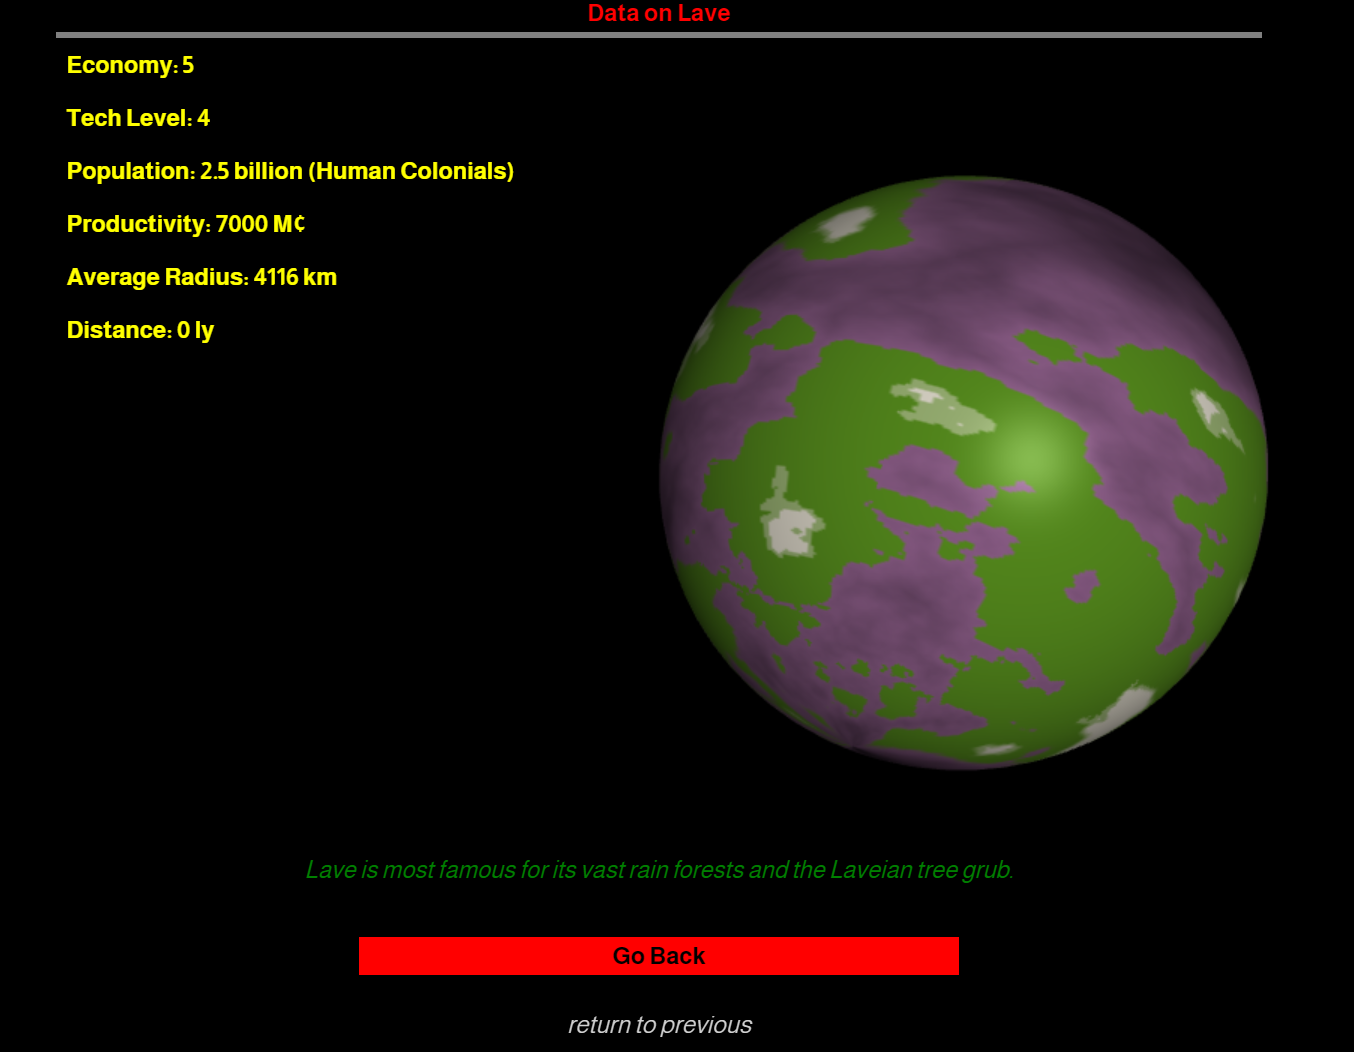
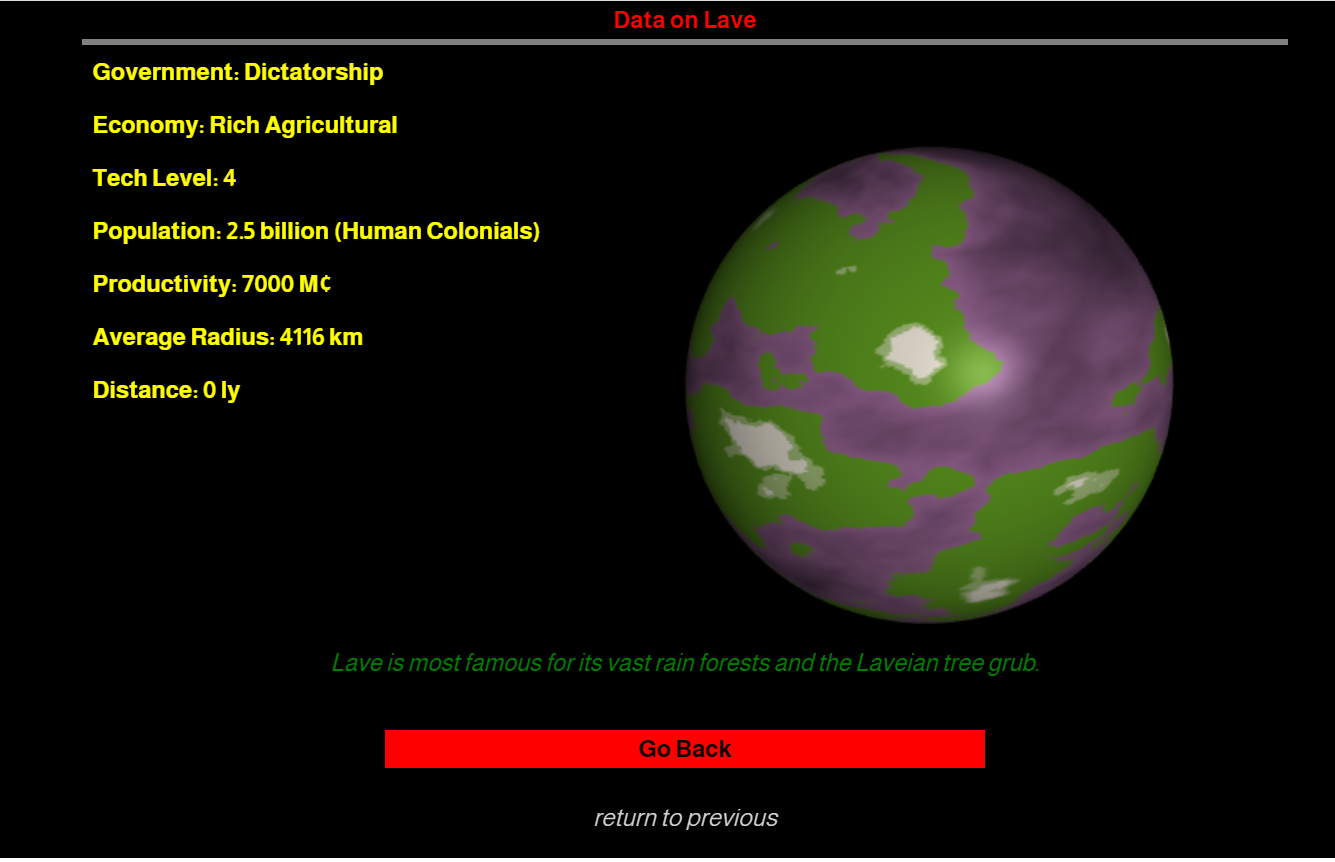
fixed economy/government display to phrase instead of number

Changed region(s): [[0.2457, 0.1508, 0.9521, 0.7842], [0.0307, 0.0, 0.9521, 0.4826], [0.0, 0.8144, 1.0, 1.0]]

diff --git a/src/modules/dom/views/system-summary.js b/src/modules/dom/views/system-summary.js
@@ -16,14 +16,15 @@ export default class SystemView extends ViewBase {
         //TODO: move leftside, statistic, blurb, etc, into base class to be shared ship lib view
         this.leftSide = DomHelper.AppendElement(this.area, Elements.LeftSide);
 
-        this.economy = DomHelper.AppendElement(this.leftSide, Elements.Statistic, "econ");
-        this.techLevel = DomHelper.AppendElement(this.leftSide, Elements.Statistic, "tech level");
-        this.population = DomHelper.AppendElement(this.leftSide, Elements.Statistic, "population");
-        this.productivity = DomHelper.AppendElement(this.leftSide, Elements.Statistic, "productivity");
-        this.radius = DomHelper.AppendElement(this.leftSide, Elements.Statistic, "radius");
-        this.distance = DomHelper.AppendElement(this.leftSide, Elements.Statistic, "distance");
+        this.government = DomHelper.AppendElement(this.leftSide, Elements.Statistic);
+        this.economy = DomHelper.AppendElement(this.leftSide, Elements.Statistic);
+        this.techLevel = DomHelper.AppendElement(this.leftSide, Elements.Statistic);
+        this.population = DomHelper.AppendElement(this.leftSide, Elements.Statistic);
+        this.productivity = DomHelper.AppendElement(this.leftSide, Elements.Statistic);
+        this.radius = DomHelper.AppendElement(this.leftSide, Elements.Statistic);
+        this.distance = DomHelper.AppendElement(this.leftSide, Elements.Statistic);
         
-        this.blurb = DomHelper.AppendElement(this.panel, Elements.Blurb, "blurb here");
+        this.blurb = DomHelper.AppendElement(this.panel, Elements.Blurb);
 
         this.AddMenu(MenuItems);
         this.addPlanet();
@@ -39,7 +40,8 @@ export default class SystemView extends ViewBase {
 
         this.SetDemoModel(model);
 
-        this.economy.textContent = "Economy: " + model.info.demographics.economy;
+        this.government.textContent = "Government: " + governments[model.info.demographics.government];
+        this.economy.textContent = "Economy: " + economies[model.info.demographics.economy];
         this.techLevel.textContent = "Tech Level: " + model.info.demographics.tech;
         this.population.textContent = "Population: " + (parseInt(model.info.demographics.type) / 10) 
                                         + " billion (" + model.info.demographics.inhabitants + ")";
@@ -54,6 +56,28 @@ export default class SystemView extends ViewBase {
         this.blurb.textContent = model.info.demographics.description;
     }
 }
+
+const economies = [
+    "Rich Industrial",
+    "Average Rich Industrial",
+    "Poor Rich Industrial",
+    "Mainly Rich Industrial",
+    "Mainly Agricultural",
+    "Rich Agricultural",
+    "Average Agricultural",
+    "Poor Agricultural"
+];
+
+const governments = [
+    "Anarchy",
+    "Feudal",
+    "Multi-government",
+    "Dictatorship",
+    "Communist",
+    "Confederacy",
+    "Democracy",
+    "Corporate State"
+];
 
 const MenuItems = [
     {
